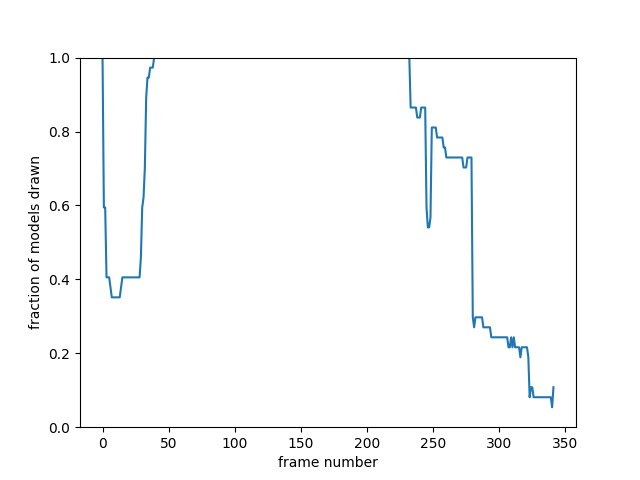
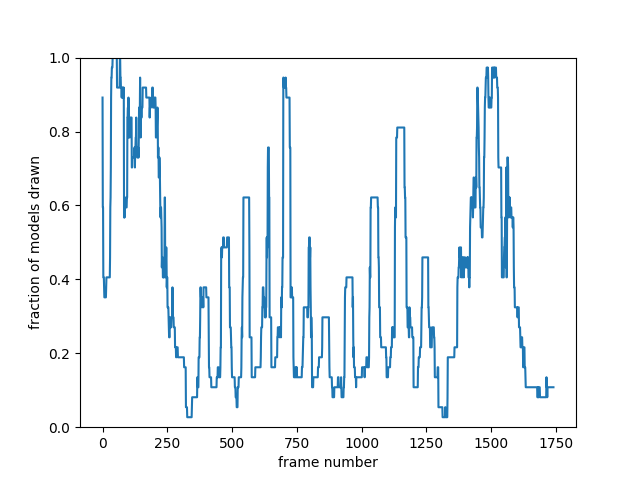
performance

diff --git a/render/cull.cpp b/render/cull.cpp
@@ -453,7 +453,7 @@ void renderIntoDepthBuffer(glm::vec2 t1, glm::vec2 t2, glm::vec2 t3, GLfloat max
 				full = (full && b.bits[i] == ~0);
 			}
 			if (full) {
-				b.reference = b.working;
+				b.reference = std::min(b.reference, b.working);
 				b.working = 0.0f;
 				for (int i = 0; i < BLOCK_HEIGHT; i++) {
 					b.bits[i] = 0;
@@ -497,7 +497,9 @@ bool shouldDraw(const ModelCollection& m) {
 
 	//Depth test
 	bool visible = depthTest(minX, maxX, minY, maxY, minZ, maxZ);
-	updateDepthBuffer(m);
+	if (visible) {
+		updateDepthBuffer(m);
+	}
 
 	return visible;
 }

diff --git a/render/cull.h b/render/cull.h
@@ -7,8 +7,8 @@
 #include "models.h"
 #include <vector>
 
-#define BUFFER_WIDTH 320
-#define BUFFER_HEIGHT 240
+#define BUFFER_WIDTH 1440
+#define BUFFER_HEIGHT 1024
 #define BLOCK_HEIGHT 8
 
 uint32_t line(uint32_t e0, uint32_t e1, uint32_t e2, uint32_t o0, uint32_t o1, uint32_t o2);

diff --git a/render/draw.h b/render/draw.h
@@ -9,8 +9,8 @@
 
 #define FPS 60 //Max frames per second
 
-#define SCREEN_WIDTH 1024
-#define SCREEN_HEIGHT 768
+#define SCREEN_WIDTH 1440
+#define SCREEN_HEIGHT 1024
 
 #define NEAR 0.01f
 
